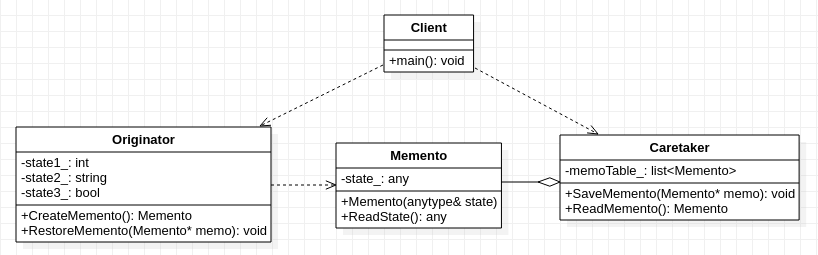
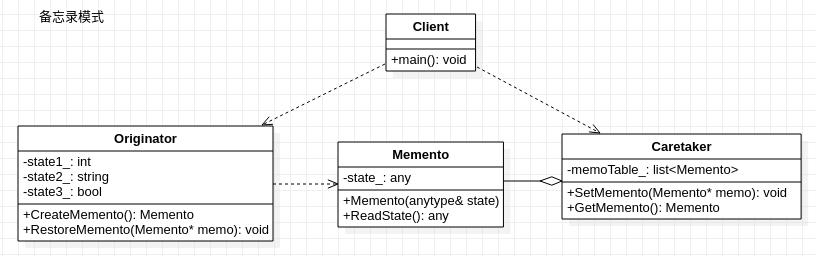
fix(learningDesignPatterns/备忘录模式): 修改备忘录模式中关于应用场景的补充说明与Caretaker类的函数修改
修改内容：
        将Caretaker::SaveMemento修改为Caretaker::SetMemento
        将Caretaker::ReadMemento修改为Caretaker::GetMemento
        增加 文本中 使用场景 的补充说明

diff --git a/learningDesignPatterns/备忘录模式/Memento.cpp b/learningDesignPatterns/备忘录模式/Memento.cpp
@@ -4,13 +4,18 @@
 /**********************************************************************************************************
  * 备忘录模式适合(有选择性)保存一部分信息.相对地,当需要保存当前对象的所有信息时可以考虑使用原型模式
  * 备忘录模式又名快照模式,常见的如:虚拟机,git上的快照技术都使用备忘录模式来存放状态信息(发生变化的内容)
+ * 使用场景：1，有时一些发起人对象的内部信息必须保存在发起人对象以外的地方，但是又必须要由发起人对象
+ *                              自己读取（这也是模式思想）
+ *                       2，当发起人角色的状态改变的时候，有可能这个状态无效，这时候就可以使用暂时存储起来的
+ *                              备忘录将状态复原
  * 备忘录模式包括三个对象:发起者,备忘录,管理者
  * 对备忘录而言:储存需要保存的状态, 提供读取状态的接口
  * 对发起者而言:创建备忘录,恢复备忘录
  * 对管理者而言:保存备忘录,读取备忘录
  * 关键是:如何设计可以同时动态承载不同类型的状态信息类.
  * 目前的基本思路是使用模板方法, boost::any, std::variant
- * 参考资料： https://www.cnblogs.com/qicosmos/p/3420095.html
+ * 参考资料：https://zhuanlan.zhihu.com/p/57352961
+ *                      https://www.cnblogs.com/qicosmos/p/3420095.html
  ***********************************************************************************************************/
 
 typedef std::list<boost::any> anytype;
@@ -62,10 +67,10 @@ class Caretaker
     private:
         std::list<Memento*> memoTable_;
     public:
-        void SaveMemento(Memento* memo){
+        void SetMemento(Memento* memo){
             memoTable_.push_back(memo);
         }
-        Memento* ReadMemento(){
+        Memento* GetMemento(){
             Memento* snapShot = memoTable_.back();
             memoTable_.pop_back();
             return snapShot;
@@ -75,6 +80,6 @@ class Caretaker
 int main(){
     Originator* org = new Originator();
     Caretaker* crt = new Caretaker();
-    crt->SaveMemento(org->CreateMemento());
-    org->RestoreMemento(crt->ReadMemento());
+    crt->SetMemento(org->CreateMemento());
+    org->RestoreMemento(crt->GetMemento());
 }

diff --git a/learningDesignPatterns/备忘录模式/README.md b/learningDesignPatterns/备忘录模式/README.md
@@ -3,16 +3,21 @@
 ![Memento](./Memento.png "Memento.png")
 
     /**********************************************************************************************************
-     * 备忘录模式适合(有选择性)保存一部分信息.相对地,当需要保存当前对象的所有信息时可以考虑使用原型模式  
-     * 备忘录模式又名快照模式,常见的如:虚拟机,git上的快照技术都使用备忘录模式来存放状态信息(发生变化的内容)
-     * 备忘录模式包括三个对象:发起者,备忘录,管理者
-     * 对备忘录而言:储存需要保存的状态, 提供读取状态的接口
-     * 对发起者而言:创建备忘录,恢复备忘录
-     * 对管理者而言:保存备忘录,读取备忘录
-     * 关键是:如何设计可以同时动态承载不同类型的状态信息类.
-     * 目前的基本思路是使用模板方法, boost::any, std::variant  
-      * 参考资料： <https://www.cnblogs.com/qicosmos/p/3420095.html>
-     ***********************************************************************************************************/
+    * 备忘录模式适合(有选择性)保存一部分信息.相对地,当需要保存当前对象的所有信息时可以考虑使用原型模式
+    * 备忘录模式又名快照模式,常见的如:虚拟机,git上的快照技术都使用备忘录模式来存放状态信息(发生变化的内容)
+    * 使用场景：1，有时一些发起人对象的内部信息必须保存在发起人对象以外的地方，但是又必须要由发起人对象
+    *                              自己读取（这也是模式思想）
+    *                       2，当发起人角色的状态改变的时候，有可能这个状态无效，这时候就可以使用暂时存储起来的
+    *                              备忘录将状态复原
+    * 备忘录模式包括三个对象:发起者,备忘录,管理者
+    * 对备忘录而言:储存需要保存的状态, 提供读取状态的接口
+    * 对发起者而言:创建备忘录,恢复备忘录
+    * 对管理者而言:保存备忘录,读取备忘录
+    * 关键是:如何设计可以同时动态承载不同类型的状态信息类.
+    * 目前的基本思路是使用模板方法, boost::any, std::variant
+    * 参考资料：https://zhuanlan.zhihu.com/p/57352961
+    *                      https://www.cnblogs.com/qicosmos/p/3420095.html
+    ***********************************************************************************************************/
 
 ```cpp
 #include <list>
@@ -68,10 +73,10 @@ class Caretaker
     private:
         std::list<Memento*> memoTable_;
     public:
-        void SaveMemento(Memento* memo){
+        void SetMemento(Memento* memo){
             memoTable_.push_back(memo);
         }
-        Memento* ReadMemento(){
+        Memento* GetMemento(){
             Memento* snapShot = memoTable_.back();
             memoTable_.pop_back();
             return snapShot;
@@ -81,8 +86,8 @@ class Caretaker
 int main(){
     Originator* org = new Originator();
     Caretaker* crt = new Caretaker();
-    crt->SaveMemento(org->CreateMemento());
-    org->RestoreMemento(crt->ReadMemento());
+    crt->SetMemento(org->CreateMemento());
+    org->RestoreMemento(crt->GetMemento());
 }
 ```
 
